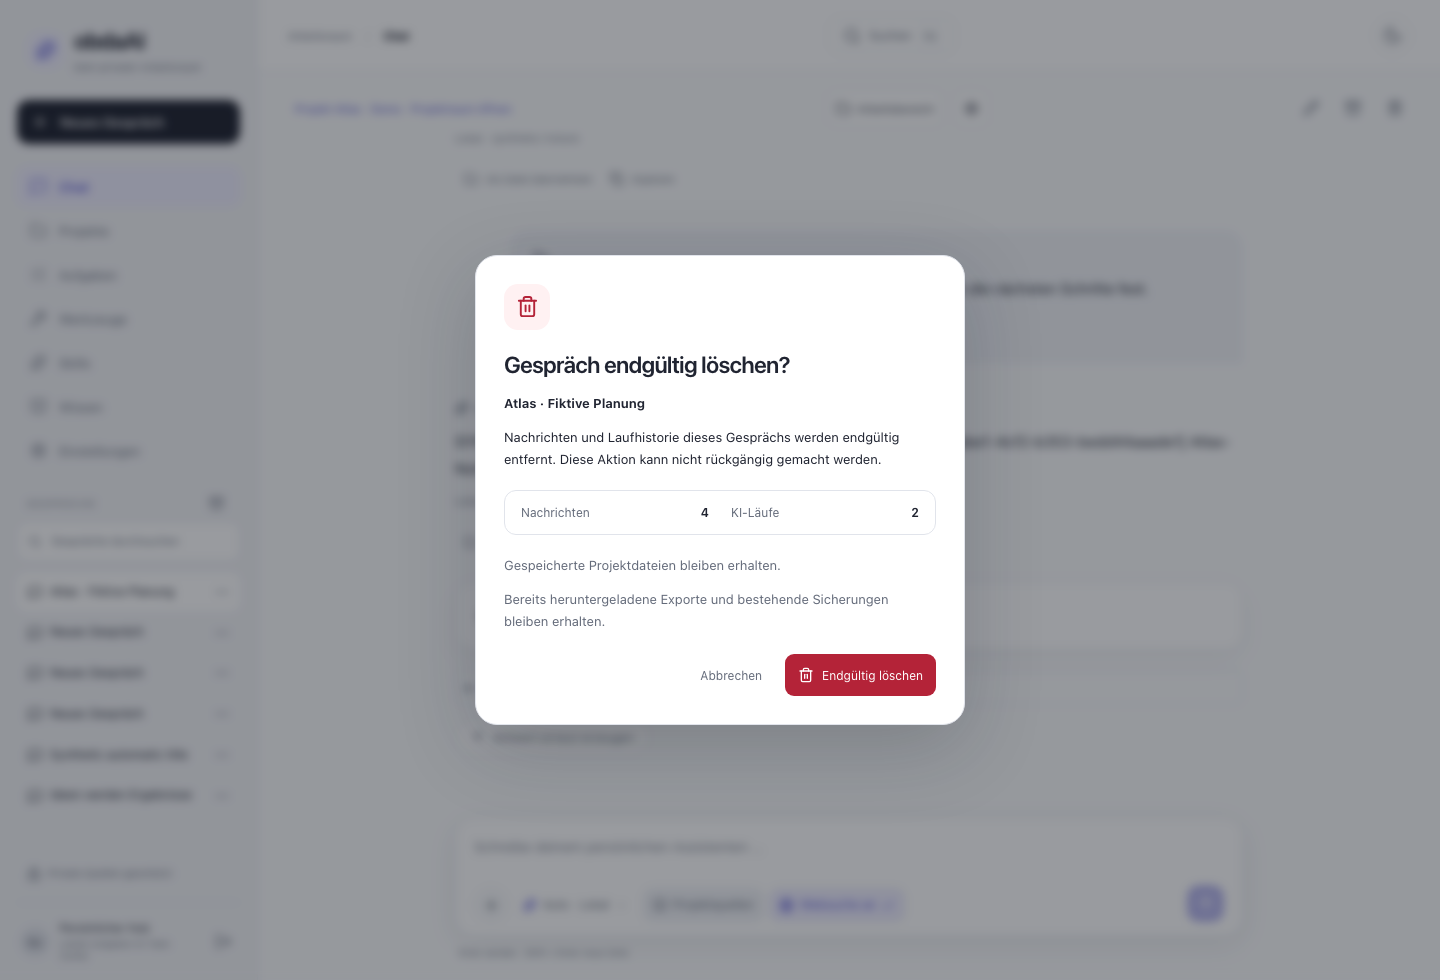
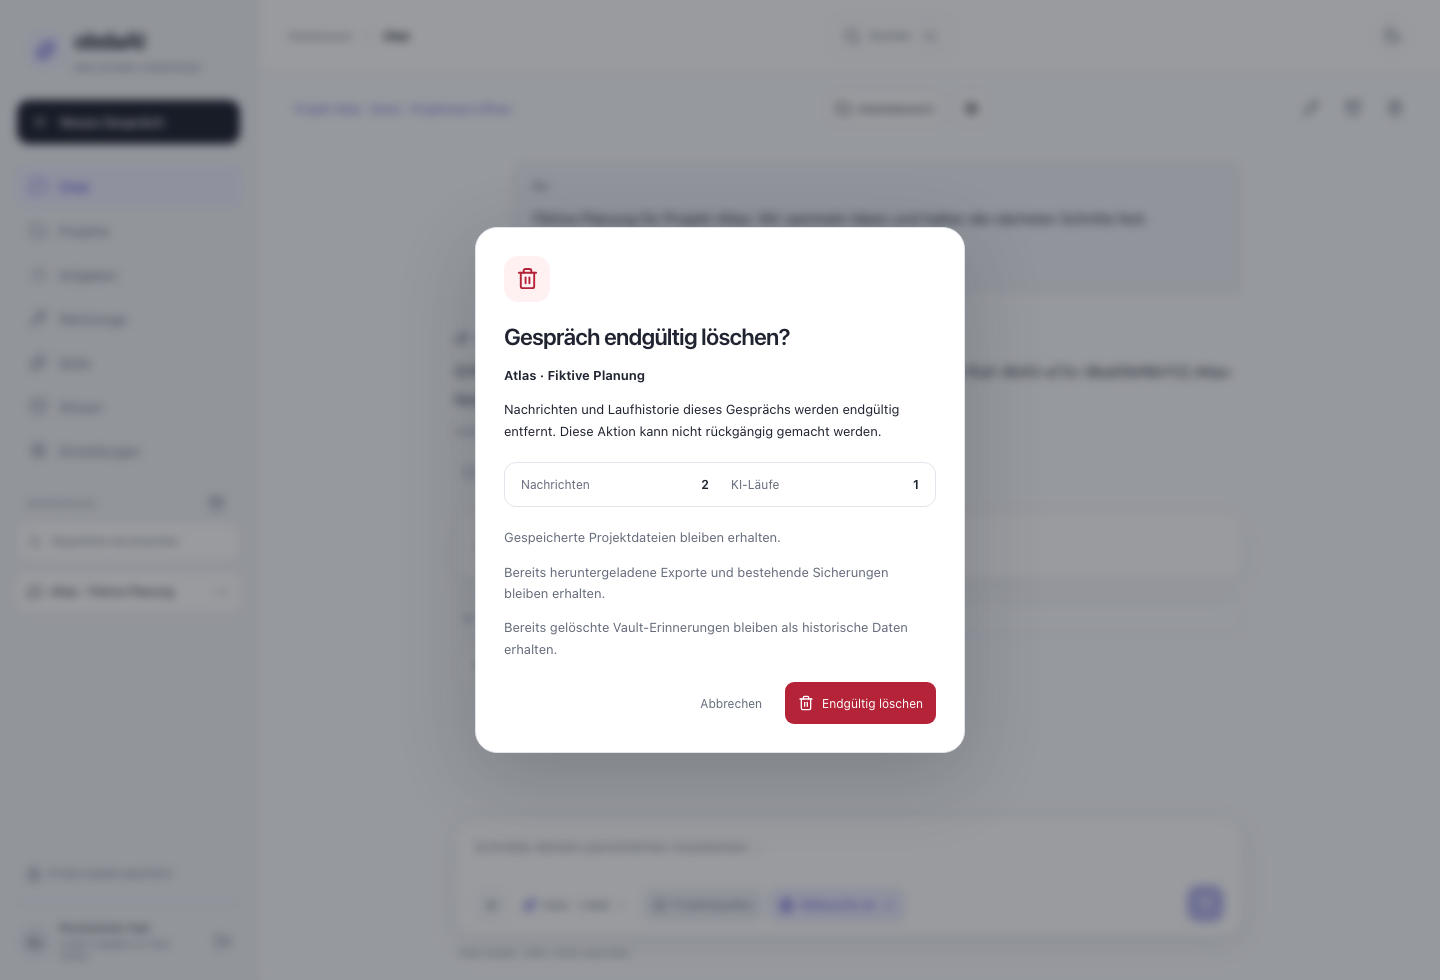
Document verified permanent deletion and refresh public showcase

diff --git a/website/app.js b/website/app.js
@@ -28,7 +28,7 @@ async function init(){
  const gallery=document.querySelector('#gallery-tabs');const names={chat:'Chat',projects:'Projekte',files:'Dateien',tasks:'Aufgaben',knowledge:'Wissen',security:'Sicherheit',processing:'Verarbeitung',search:'Suche','run-error':'Fehleranzeige',websettings:'Webrecherche',chatreading:'Leseposition'};project.screenshots.forEach((shot,i)=>{const b=node('button',names[shot.id]||shot.title);b.type='button';b.id='gallery-tab-'+i;b.setAttribute('role','tab');b.setAttribute('aria-controls','gallery-panel');b.addEventListener('click',()=>showScreenshot(i));b.addEventListener('keydown',e=>{if(!['ArrowLeft','ArrowRight','Home','End'].includes(e.key))return;e.preventDefault();const n=e.key==='Home'?0:e.key==='End'?project.screenshots.length-1:(i+(e.key==='ArrowRight'?1:project.screenshots.length-1))%project.screenshots.length;showScreenshot(n);gallery.children[n].focus();});gallery.append(b);});showScreenshot(0);
  const dialog=document.querySelector('#image-dialog');document.querySelector('#expand-image').addEventListener('click',()=>{const image=document.querySelector('#dialog-image');image.src=project.screenshots[selected].image;image.alt=project.screenshots[selected].title+' – synthetische Beispieldaten';dialog.showModal();});document.querySelector('#close-image').addEventListener('click',()=>dialog.close());dialog.addEventListener('click',e=>{if(e.target===dialog)dialog.close();});
  const roadmap=document.querySelector('#roadmap-items');project.roadmap.forEach((item,i)=>{const el=node('article',undefined,'roadmap-item');el.append(node('span',String(i+1).padStart(2,'0')));const copy=node('div');copy.append(node('h4',item.title),node('p',item.text));el.append(copy);roadmap.append(el);});
- if(project.development){document.querySelector('#development-status').textContent='Neu lokal geprüft: integrierter Chat-Arbeitsbereich, einfachere Dialoge und gespeicherte Antwortvorgaben · Schema '+project.development.schema+'. '+(project.development.ciTests?project.development.ciTests+' Tests in der aktuellen CI, '+project.development.browserChecks+' synthetische Browserprüfungen. ':'')+(project.development.serverDeployment?'Arbeitsraumsuche, Passwortverwaltung, Herkunftshinweise und integrierter Arbeitsraum auf der Test-VM installiert. Lokale Antwort mit Modellhinweis und Reload geprüft; echtes Passwort unverändert. UI-Prüfungen bleiben von breiter Fakten-/Geräteabnahme getrennt.':'Noch keine Serverinstallation dieser Lieferung.');}
+ if(project.development){document.querySelector('#development-status').textContent='Aktueller Entwicklungsstand · Schema '+project.development.schema+'. '+(project.development.ciTests?project.development.ciTests+' Tests in der aktuellen CI, '+project.development.browserChecks+' synthetische Browserprüfungen. ':'')+(project.development.liveScope||(project.development.serverDeployment?'Auf der Test-VM installiert.':'Noch keine Serverinstallation dieser Lieferung.'));}
  document.querySelector('#updated').textContent='Stand: '+project.updated.split('-').reverse().join('.');document.querySelector('#tests-count').textContent=project.tests;document.querySelector('#app-release').textContent=project.applicationCommit;document.querySelector('#ci-link').href=project.ciUrl;renderFeatures();
  try{const build=await fetch('build.json');if(build.ok){const info=await build.json();document.querySelector('#website-revision').textContent='Website: '+info.revision;}}catch{/* Build metadata is optional for local previews. */}
 }

diff --git a/STATUS.md b/STATUS.md
@@ -1,5 +1,23 @@
 # obdaAI — Status 10.10.2026
 
+## Endgültige Löschung auf Test-VM bestätigt – 10.10.2026
+
+Release `45f93c8`, Schema0032: [CI38085032750](https://github.com/sschluet/obdaAI/actions/runs/38085032750),
+alle sechs Jobs erfolgreich, 767 Python-/PostgreSQLtests und 24 UI-Browsersuiten
+plus separate Fixture-Anmeldung. Gepinnte HTTPS-/Asset-/Loginprüfung erfolgreich,
+auch während Hintergrund-Vault-Abgleich; globale Besitzblockade behoben.
+Echte Browserabnahme mit ausschließlich eigenen synthetischen Objekten: aktiven
+und archivierten Chat über Menü gelöscht; Abbrechen erhält Inhalte, Neuladen zeigt
+keine gelöschten Objekte. Testprojekt mit real geparster Quelle, lokalem Chatlauf und
+real erzeugter Offline-Word-Datei über Projekt-Dialog gelöscht. Bereinigungsauftrag
+abgeschlossen: Originalkopie, Parser-JSON, Artefaktauftrag/-ausgabe und simulierte
+unterbrochene Eingabekopie physisch entfernt. API bleibt auf Ergebnissen nur lesend.
+Keine Renderfehler, eigene QA-Sitzung beendet, Testobjekte entfernt. Verschlüsselte
+Off-VM-Sicherung, Nachrichten beim Rollout, acht Overlays und Netzregeln erhalten.
+Website: 61 Funktionen, 20 ausschließlich synthetische Bilder; beide Löschdialoge
+auf neuestem Stand visuell geprüft. Veröffentlichung wird separat verifiziert.
+Breite reale Geräte-/Safari-/V1-Abnahme bleibt offen.
+
 ## Begrenzte Sperren nach realer VM-Abnahme – 10.10.2026
 
 CI für `e5fbd79` bestand alle sechs Jobs mit 765 Tests. Der reale Rollout zeigte

diff --git a/docs/deletion.md b/docs/deletion.md
@@ -26,6 +26,12 @@ Vault-Dateien, heruntergeladene Exporte und bestehende Sicherungen werden nicht
 entfernt. Das inhaltsfreie Kostenbuch bleibt erhalten, damit eine Chatlöschung
 verbrauchtes Cloudbudget nicht zurücksetzt.
 
+Ein laufender Vault-Abgleich blockiert weder Anmeldung noch die Bereinigung von
+App-Dateien. Bei projektbezogenen Erinnerungen prüft die Löschung den laufenden
+Abgleich ohne zu warten und zeigt gegebenenfalls einen erneuten Versuch an.
+Bereits gelöschte Erinnerungen bleiben historisch ihrem alten Projekt zugeordnet
+und werden durch den Abgleich nicht als globale Erinnerungen reaktiviert.
+
 ## Dateibereinigung und Betriebszustand
 
 Die API löscht Datensätze in einer Transaktion und legt bei Projektdateien zugleich
